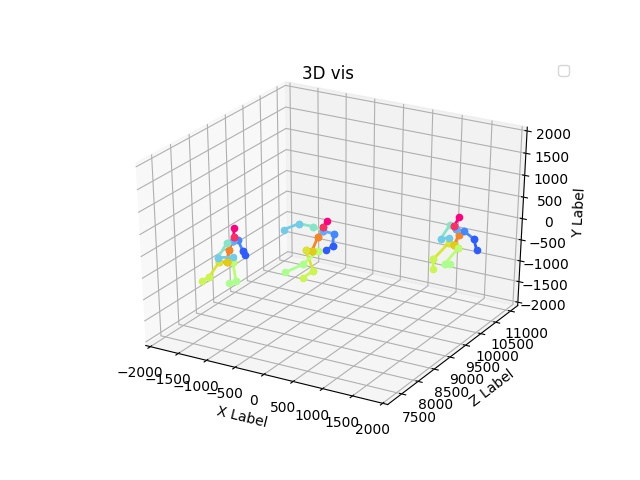
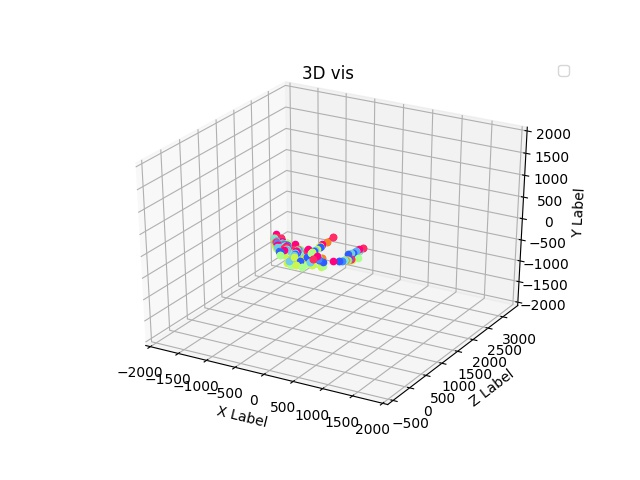
debug

Changed region(s): [[0.2188, 0.1875, 0.875, 0.9062], [0.6562, 0.4375, 0.75, 0.5625]]

diff --git a/rootnet.py b/rootnet.py
@@ -23,6 +23,7 @@ def get_input(image, person_boxes):
     for i, box in enumerate(person_boxes):
         patch_image, _ = generate_patch_image(image, box, False, 0)
         person_images[i] = transform(patch_image)
+        print((box[3] / 2), (box[2] / 2))
         k_values[i] = np.array(
             [math.sqrt(rootnet_cfg.bbox_real[0] * rootnet_cfg.bbox_real[1] * (box[3] / 2) * (box[2] / 2) / (box[3] * box[2]))]).astype(
             np.float32)

diff --git a/posenet.py b/posenet.py
@@ -35,6 +35,7 @@ def get_pose(raw_image, person_boxes, person_images, rootnet_preds):
         if pipeline_cfg.to_camera:
             f = np.array([raw_image.shape[1]/2, raw_image.shape[0]/2])
             c = np.array([raw_image.shape[1]/2, raw_image.shape[0]/2])
+            print(f)
             posenet_pred[:, 0], posenet_pred[:, 1], posenet_pred[:, 2] = pixel2cam(posenet_pred, f, c)
 
     return posenet_preds

diff --git a/config.py b/config.py
@@ -55,7 +55,7 @@ class Config:
     flip_pairs = ((2, 5), (3, 6), (4, 7), (8, 11), (9, 12), (10, 13))
     rootnet_model_inx = 18
     posenet_model_inx = 24
-    # f = np.array([800, 800])
+    f = np.array([800, 800])
 
     to_camera = True
     vis = True
